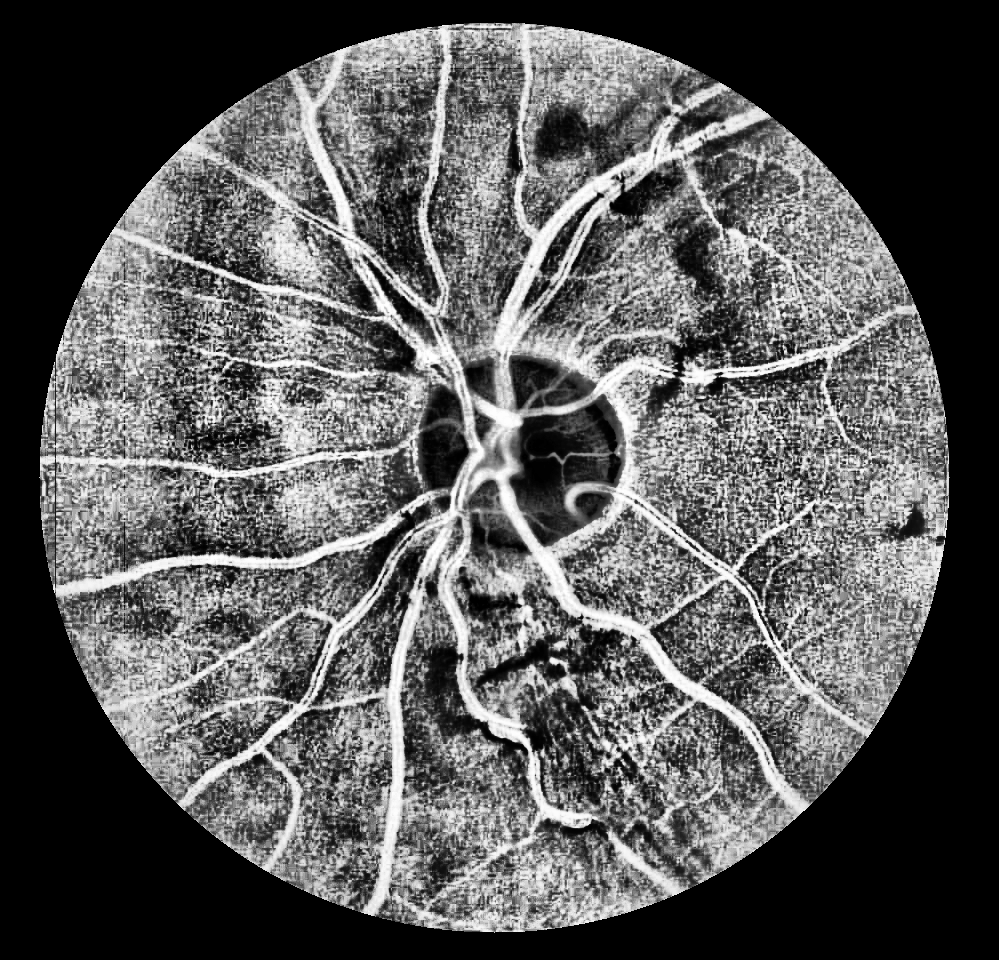
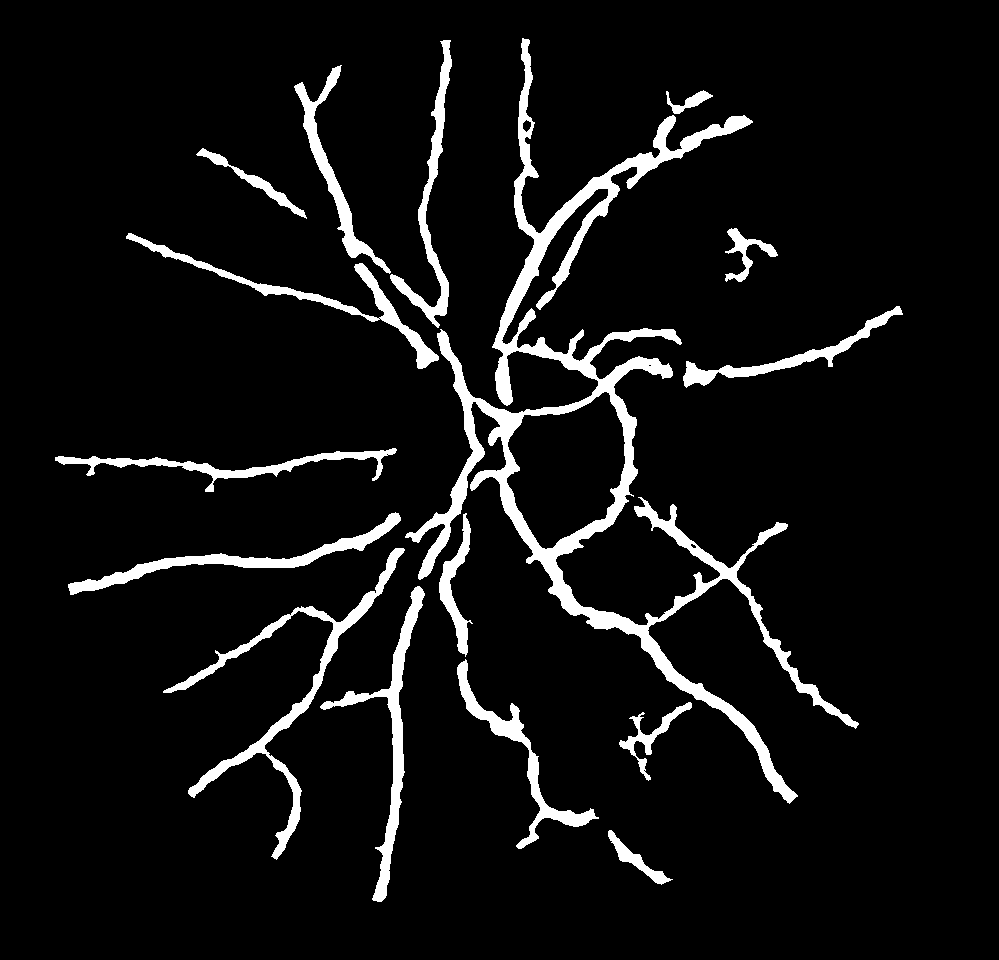
Wykonczona wersja podstawowa + Obliczanie miar jakosci przetwarzania

diff --git a/detector.py b/detector.py
@@ -8,12 +8,17 @@
 
 
 from PyQt5 import QtCore, QtGui, QtWidgets
-from skimage import io, exposure, feature, filters, color, transform, morphology, img_as_float
+from skimage import io, exposure, feature, filters, color, transform, morphology, img_as_float, img_as_bool
 from scipy import ndimage as ndi
 import numpy as np
 import cv2 as cv
 
 class Ui_mainWindow(object):
+    def __init__(self):
+        self.IMAGE_WIDTH = 999
+        self.IMAGE_HEIGHT = 960
+        self.NUM_OF_PIXELS = self.IMAGE_HEIGHT * self.IMAGE_WIDTH
+
     def setupUi(self, mainWindow):
         mainWindow.setObjectName("mainWindow")
         mainWindow.resize(800, 600)
@@ -105,44 +110,83 @@ class Ui_mainWindow(object):
 
     def simpleProcessing(self):
         newImg = io.imread(self.imagePath)
-        newImg[:,:,0] = 0
+
+        newImg[:,:,0] = 0 # PREPROCESSING
         newImg[:,:,2] = 0
         newImg = color.rgb2gray(newImg)
-
         newImg = exposure.equalize_adapthist(newImg)
         newImg = exposure.equalize_adapthist(newImg, (50, 50))
         newImg = exposure.equalize_adapthist(newImg, (300, 300))
         newImg = exposure.equalize_adapthist(newImg, (150, 150))
+        #newImg = morphology.erosion(newImg)
         #newImg = filters.unsharp_mask(newImg, radius=10, amount=1)
         newImg = 1 - newImg
-        for i in range(len(newImg)):
-            for j in range(len(newImg[0])):
-                if (((i - 477) ** 2) + ((j - 494) ** 2)) ** 0.5 > 455:
-                    newImg[i][j] = 0
-                #if newImg[i][j] < 0.1:
-                    #newImg[i][j] = 0
-        #newImg = filters.gaussian(newImg, sigma=3)
+
         #newImg = exposure.rescale_intensity(img, out_range=(0, 1))
-        #newImg = newImg > 0.75
-        #newImg = filters.sobel(newImg)
-        #newImg = newImg > 0.01
-        #newImg = feature.canny(newImg, 3)
-        #newImg = filters.gaussian(newImg, sigma=1.5)
-        #newImg = newImg > 0.25
         #newImg = ndi.binary_fill_holes(newImg)
-        #newImg = ndi.binary_fill_holes(newImg)
+        #newImg = newImg > filters.threshold_local(newImg, 99)
+        #morphology.remove_small_objects(newImg, 250)
+        newImg = filters.gaussian(newImg, sigma=3)
+        newImg = newImg > filters.threshold_local(newImg, 21, method='generic', param=self.calc)
+        newImg = morphology.remove_small_objects(newImg, 700)
+        for i in range(len(newImg)):  # USUWANIE OBRĘCZY
+            for j in range(len(newImg[0])):
+                if (((i - 477) ** 2) + ((j - 494) ** 2)) ** 0.5 > 440:
+                    newImg[i][j] = 0
+
+        """newImg = filters.gaussian(newImg, sigma=3)
+        newImg = filters.sobel(newImg)   # całkiem niezły wynik
+        newImg = newImg > 0.045
+        newImg = morphology.remove_small_objects(newImg, 250)"""
+
         self.resultPath = "result.png"
         newImg = img_as_float(newImg)
         io.imsave(self.resultPath, newImg)
         self.showResultingImage()
+        self.analyzeResults(newImg)
 
     def advancedProcessing(self):
         pass
 
+    def analyzeResults(self, result):
+        expertMask = io.imread(self.imagePath[:-4] + "_1stHO.png")
+        expertMask = img_as_float(expertMask)
+        mistakeMatrix = np.zeros((self.IMAGE_WIDTH, self.IMAGE_HEIGHT, 3))
+        truePositive = trueNegative = falsePositive = falseNegative = positive = negative = 0
+        for i in range(self.IMAGE_HEIGHT):
+            for j in range(self.IMAGE_WIDTH):
+                if expertMask[i][j] == 0:
+                    negative += 1
+                    if result[i][j] == 0:
+                        trueNegative += 1
+                    else:
+                        falsePositive += 1
+                        mistakeMatrix[i][j][1] = 1
+                else:
+                    positive += 1
+                    if result[i][j] == 0:
+                        falseNegative += 1
+                        mistakeMatrix[i][j][0] = 1
+                    else:
+                        truePositive += 1
+                        mistakeMatrix[i][j] = 1
+        print(positive, negative, truePositive, trueNegative, falseNegative, falsePositive)
+        accuracy = (truePositive + trueNegative) / self.NUM_OF_PIXELS
+        sensitivity = truePositive / positive
+        specificity = trueNegative / negative
+        io.imsave("mistakes.png", mistakeMatrix)
+        print("ACCURACY : " + str(accuracy) + "\nSENSITIVITY: " + str(sensitivity) + "\nSPECIFICITY: " + str(specificity))
+
+    def calc(self, chunk):
+        result = np.sum(chunk) / len(chunk)
+        if result < 0.5:
+            return result * 1.25
+        else:
+            return result + 0.05
+
 
 def except_hook(cls, exception, traceback):
     sys.__excepthook__(cls, exception, traceback)
-
 
 
 if __name__ == "__main__":
